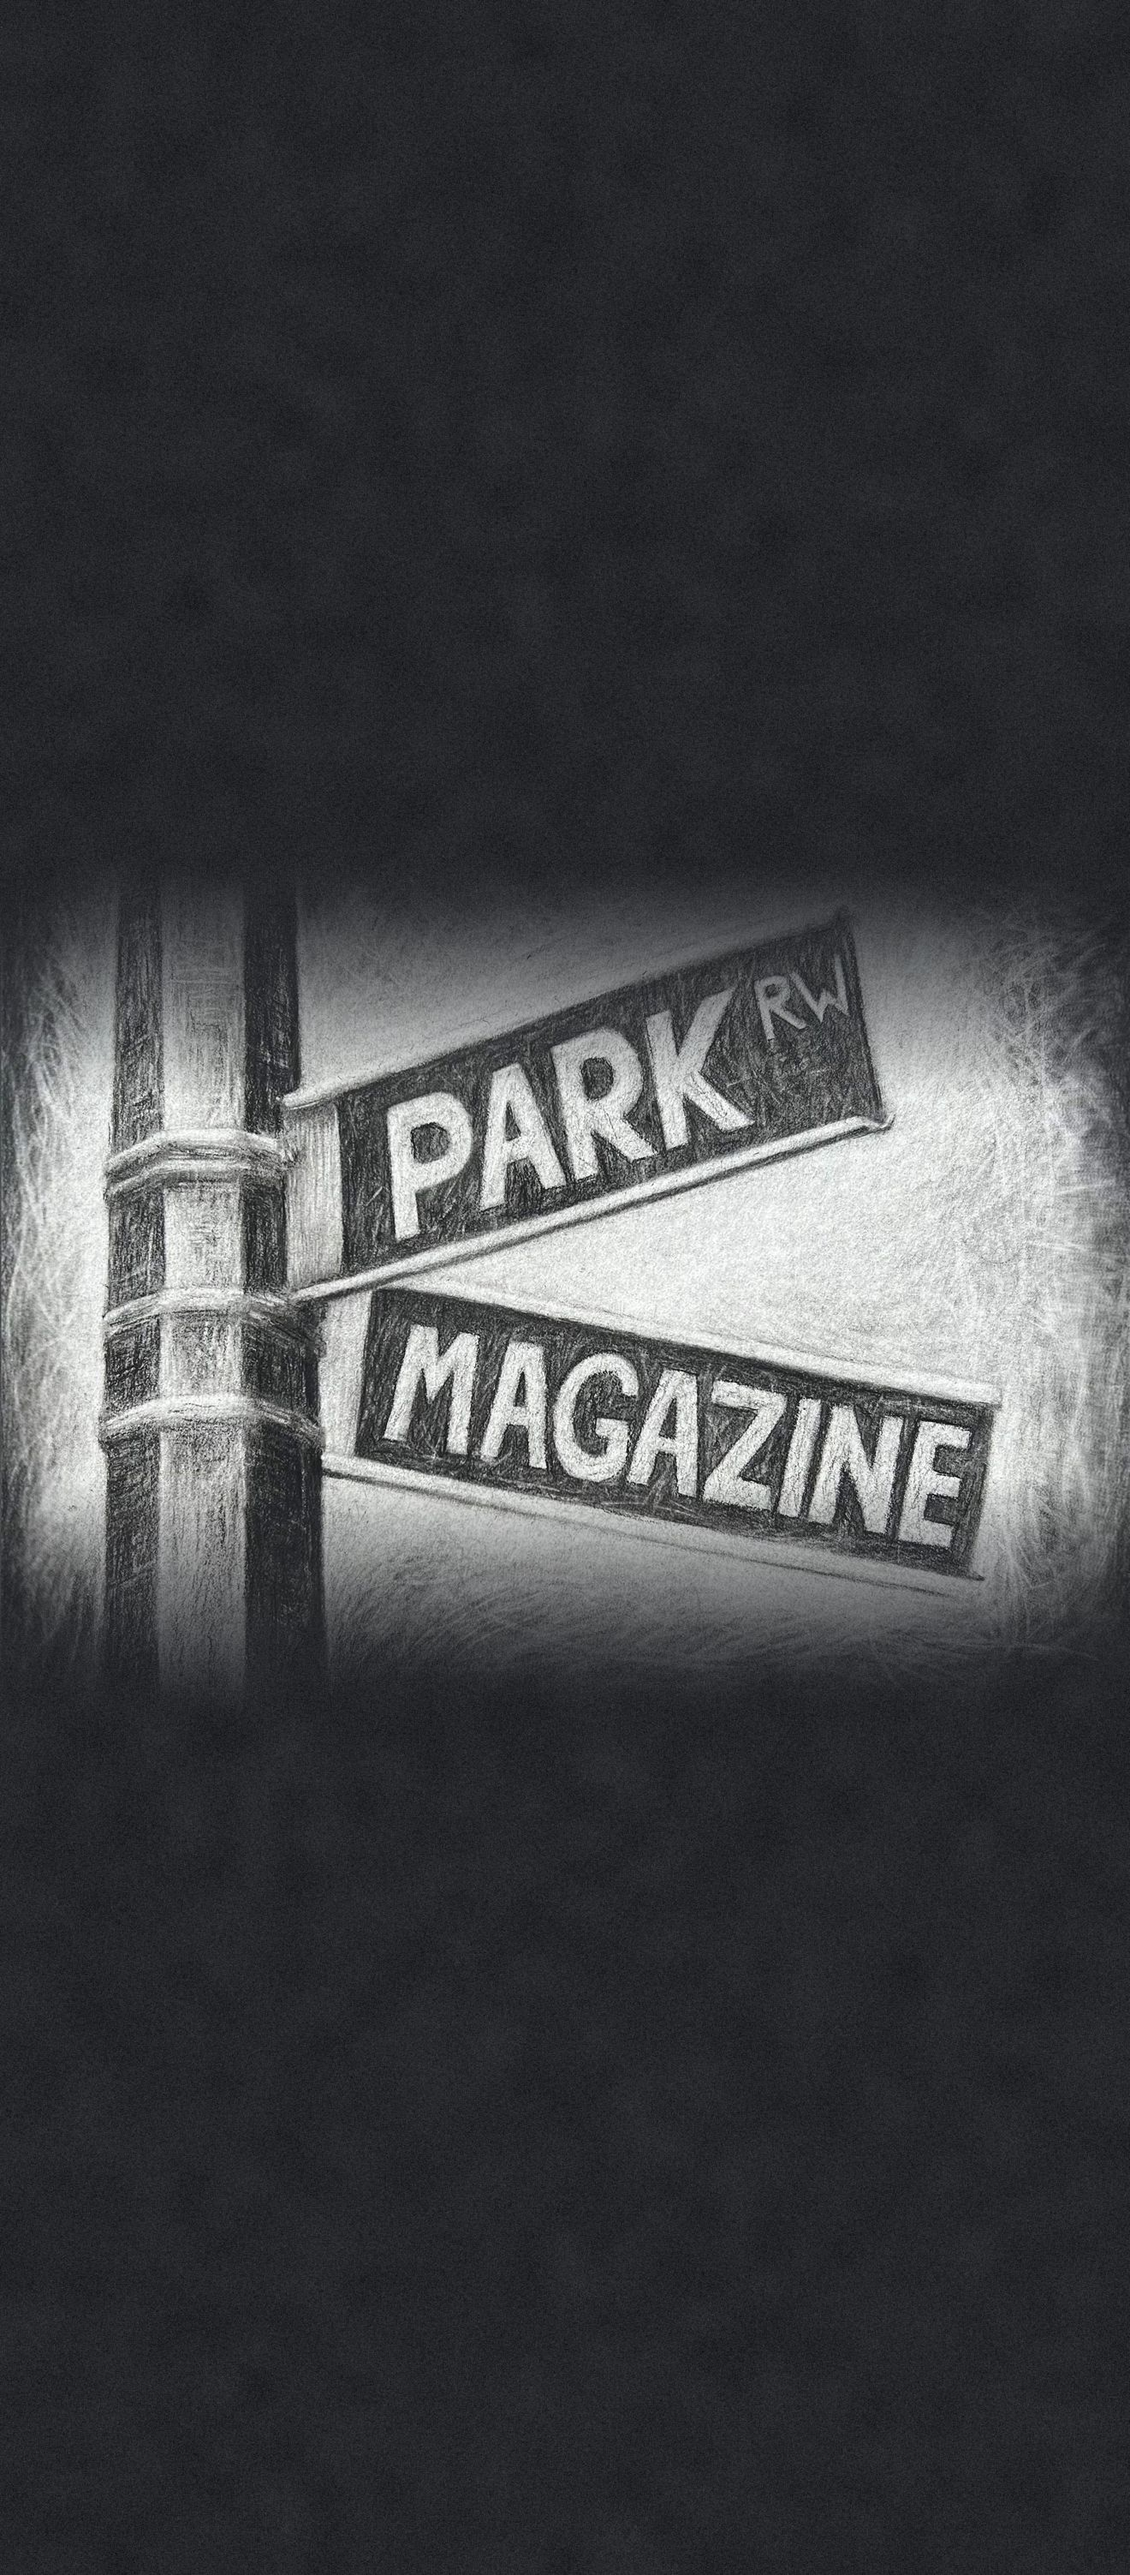
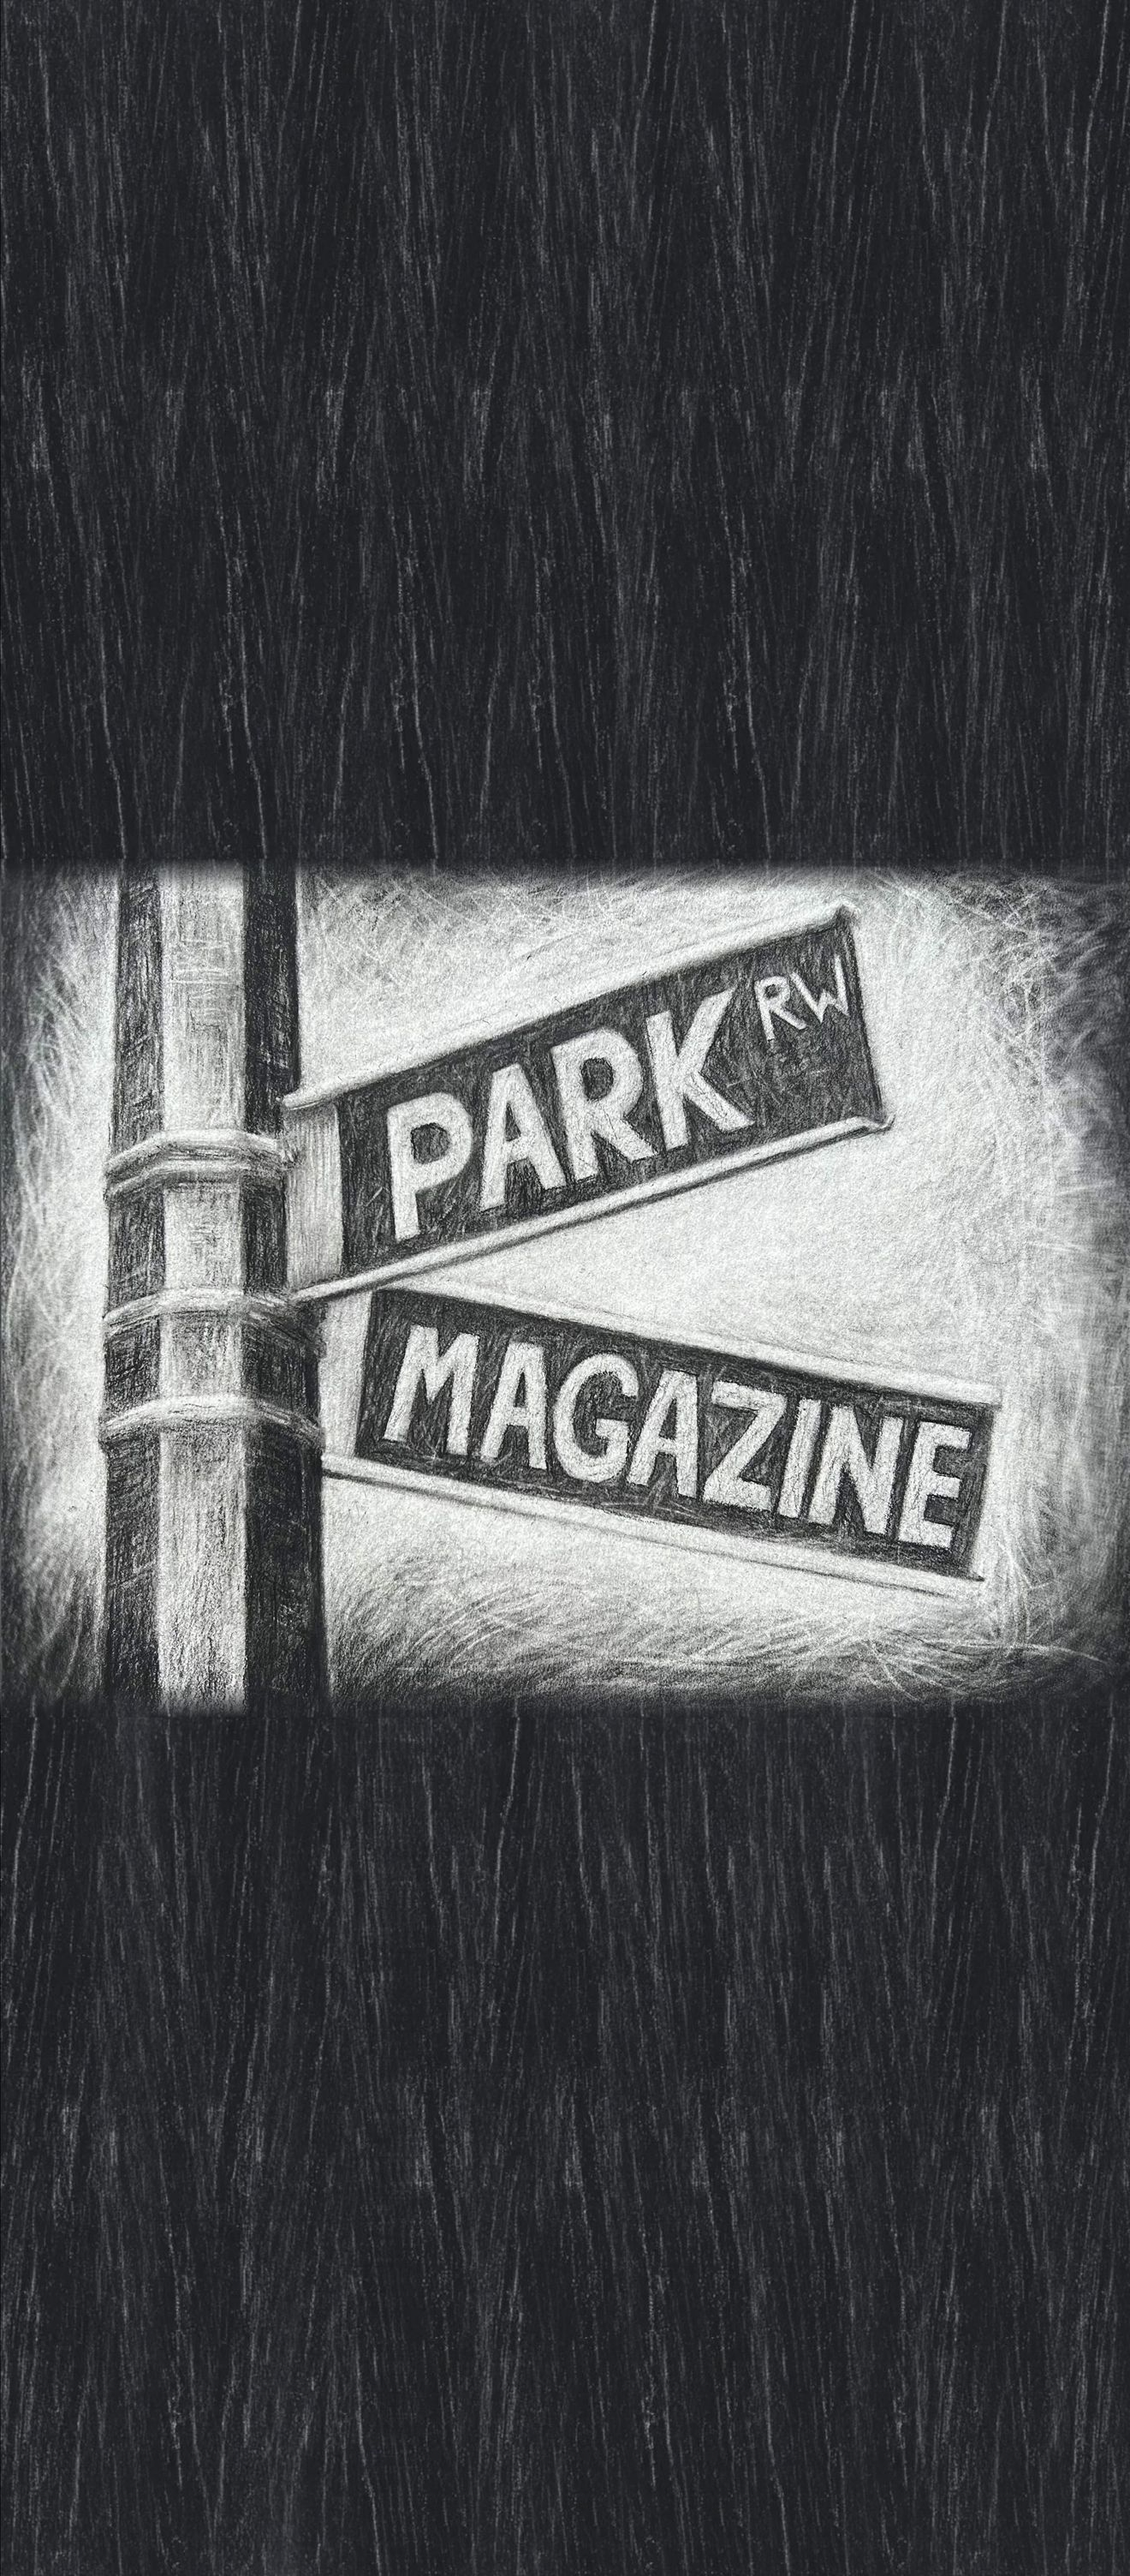
Intro on phones: charcoal texture above and below, no vignette
The bands above and below the drawing now use the same dark charcoal
texture as the wide image's side strips (pieced from slices of it, no
visible repeat), with only a short blend into the drawing instead of a
soft vignette fade.

Claude-Session: https://claude.ai/code/session_018QykFvDTegfiWEBCnUWHjm

diff --git a/tools/intro_tall.py b/tools/intro_tall.py
@@ -1,22 +1,37 @@
 # Run from the repo root: python tools/intro_tall.py <preview-folder>  (writes img/intro-sign-tall.jpg from img/intro-sign-wide-2.jpg)
 # Tall version of the intro image for upright screens (phones): the drawing in the middle, and above / below it
-# deep charcoal with a fine paper grain, the drawing fading into it like the dark edges of the wide version.
+# the same dark charcoal texture as the wide image's side strips, pieced together from vertical slices of the left
+# strip (random slice, some turned upside down, cross-faded where they meet). Short overlap into the drawing, no vignette.
 import numpy as np, sys
-from PIL import Image, ImageFilter
-S=sys.argv[1]; rng=np.random.default_rng(5)
-wide=Image.open('img/intro-sign-wide-2.jpg').convert('RGB')
-DW=1320; k=DW/2377; DH=round(1805*k)
-drawing=wide.crop((605,0,2982,1805)).resize((DW,DH),Image.LANCZOS)
-side=np.asarray(wide.crop((0,0,500,1805)),float)
-tone=np.median(side.reshape(-1,3),axis=0); print('side tone',tone)
-H=DH*3
-g=rng.normal(0,6,(H,DW))
-g=np.asarray(Image.fromarray((g+128).clip(0,255).astype('uint8')).filter(ImageFilter.GaussianBlur(.5)),float)-128
-blot=np.asarray(Image.fromarray(rng.normal(128,30,(H//40,DW//40)).clip(0,255).astype('uint8')).resize((DW,H),Image.BICUBIC),float)-128
-o=tone[None,None,:]+ (g*1.4+blot*.06)[...,None]
-out=Image.fromarray(np.clip(o,0,255).astype('uint8'))
-f=round(DH*.28); m=np.ones((DH,DW)); r=np.linspace(0,1,f)[:,None]**1.3; m[:f]*=r; m[-f:]*=r[::-1]
-out.paste(drawing,(0,DH),Image.fromarray((m*255).astype('uint8')))
-out.save('img/intro-sign-tall.jpg',quality=80,optimize=True,progressive=True)
-out.resize((DW//4,H//4)).save(S+'/tall-s.png')
-print(out.size)
+from PIL import Image
+S=sys.argv[1]; rng=np.random.default_rng(21)
+wide=np.asarray(Image.open('img/intro-sign-wide-2.jpg').convert('RGB'),float)   # 3599x1805, drawing at x 605..2982
+src=wide[40:-40,30:560]                          # left strip, away from the outer edge, the drawing and the top/bottom rows
+BW,BH=2377,1805
+src=np.asarray(Image.fromarray(src.astype('uint8')).resize((src.shape[1],BH),Image.LANCZOS),float)
+def band():
+    out=np.zeros((BH,BW,3)); ws=np.zeros((BH,BW,1)); x=0; ov=120; last=-999
+    while x<BW:
+        sw=int(rng.integers(200,320))
+        for _ in range(30):                      # not the same slice twice in a row
+            x0=int(rng.integers(0,src.shape[1]-sw))
+            if abs(x0-last)>90: break
+        last=x0; p=src[:,x0:x0+sw]
+        if rng.random()<.5: p=p[::-1]
+        w=np.ones(sw); r=np.linspace(0,1,ov); w[:ov]=r; w[-ov:]=r[::-1]
+        x1=min(BW,x+sw); n=x1-x
+        out[:,x:x1]+=p[:,:n]*w[None,:n,None]; ws[:,x:x1]+=w[None,:n,None]
+        x+=sw-ov
+    return out/np.maximum(ws,1e-6)
+top=band(); bot=band()
+draw=wide[:,605:2982].copy()
+f=70; a=np.linspace(0,1,f)[:,None,None]
+draw[:f]=top[-f:]*(1-a)+draw[:f]*a              # the band runs a little way over the drawing's edge
+draw[-f:]=draw[-f:]*(1-a)+bot[:f]*a
+full=np.concatenate([top[:-f] if False else top,draw,bot])
+img=Image.fromarray(np.clip(full,0,255).astype('uint8'))
+DW=1320; img=img.resize((DW,round(img.height*DW/BW)),Image.LANCZOS)
+img.save('img/intro-sign-tall.jpg',quality=80,optimize=True,progressive=True)
+print(img.size)
+img.crop((0,0,DW,1100)).resize((660,550)).save(S+'/tall-top.png')
+img.resize((DW//4,img.height//4)).save(S+'/tall-s.png')
